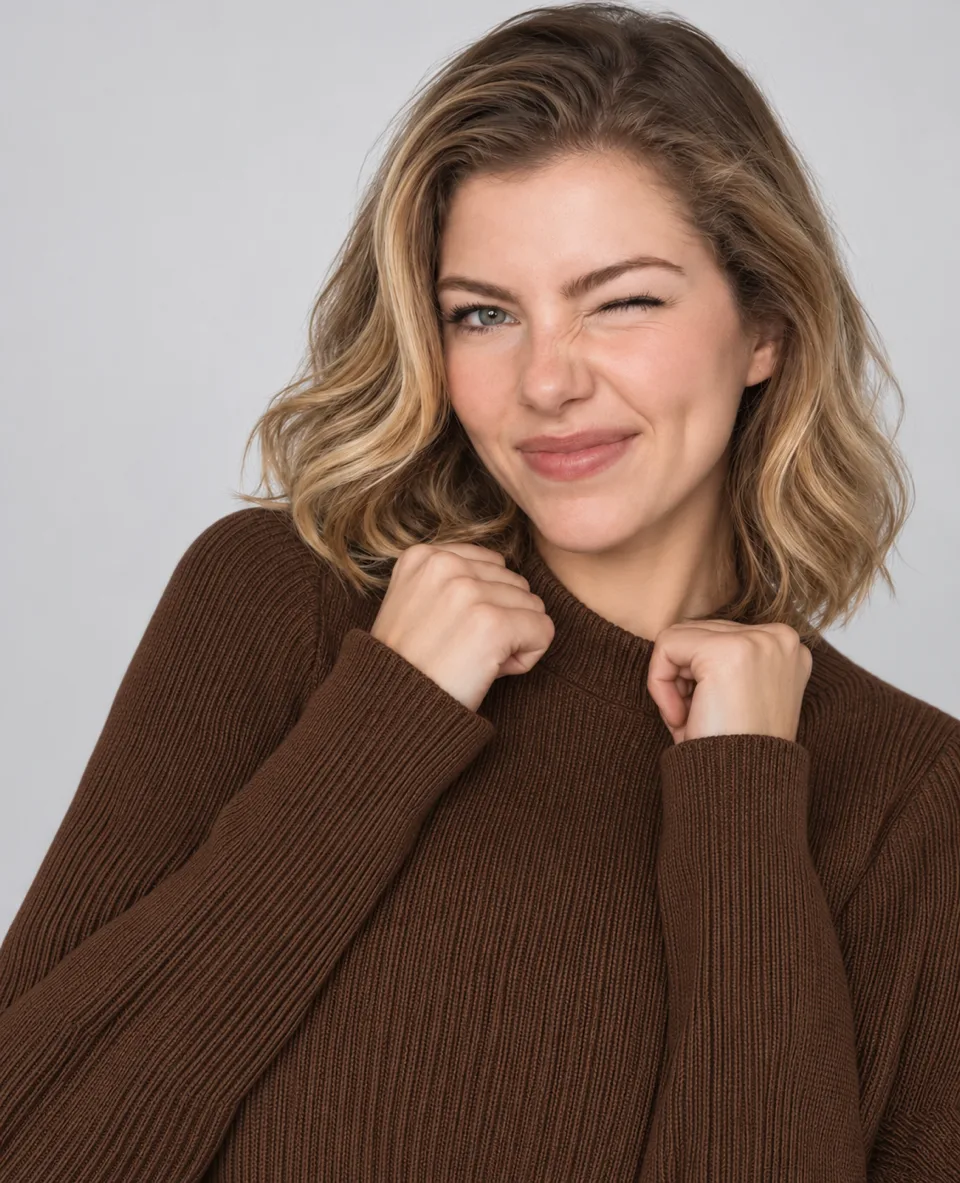
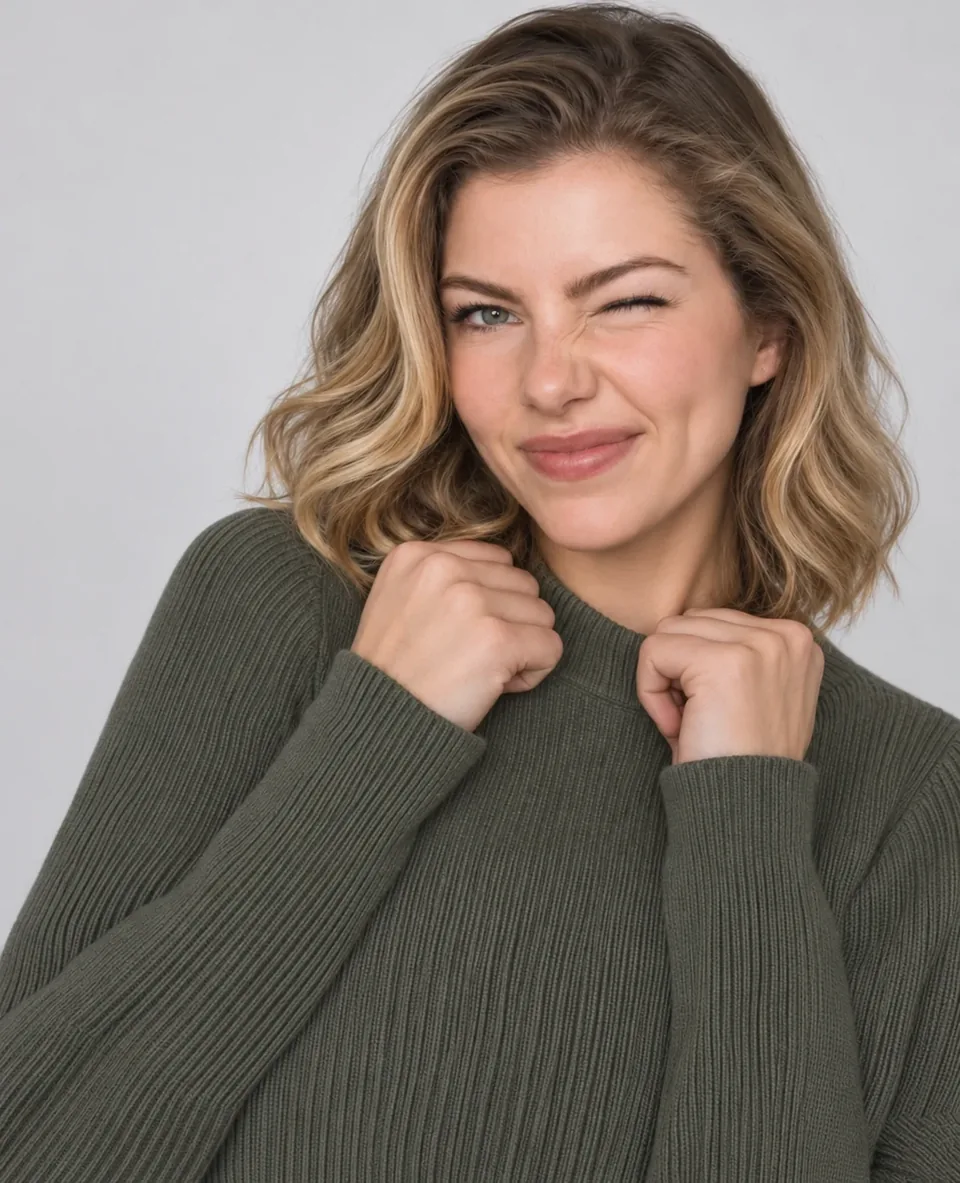
Iris blueprint as vector, new About portrait
The construction drawing on the Iris card and cover was a raster mask that went
soft when scaled up; it's now an SVG traced at the same coordinates, with the
square inscribed exactly. About gets the green-sweater portrait, same crop.

diff --git a/work/iris/cover-blueprint.html b/work/iris/cover-blueprint.html
@@ -15,7 +15,7 @@ body{transform-origin:0 0;position:relative;overflow:hidden;
    aperture is cut through, so the drawn flower would show around and inside it: that layer fades out
    as the mark lands, and the frame, labels and construction lines stay */
 #blue,#petals{left:650px;top:50px;width:900px;height:900px;background:#fff;opacity:.9}
-#blue{-webkit-mask:url(iris-mark-blueprint-frame.png) center/contain no-repeat;mask:url(iris-mark-blueprint-frame.png) center/contain no-repeat}
+#blue{-webkit-mask:url(../../assets/work/iris-blueprint-frame.svg) center/contain no-repeat;mask:url(../../assets/work/iris-blueprint-frame.svg) center/contain no-repeat}
 #petals{-webkit-mask:url(iris-mark-blueprint-flower.png) center/contain no-repeat;mask:url(iris-mark-blueprint-flower.png) center/contain no-repeat}
 /* Measured so the 3D mark lands on its drawing: the drawing's centre lines cross at (499, 442) of
    its 1000px image, its outer ring is r 130 and its petal tips r 321; the 3D mark's centre is
@@ -29,7 +29,7 @@ body{transform-origin:0 0;position:relative;overflow:hidden;
 <body>
 <div class="abs" id="blue"></div>
 <div class="abs" id="petals"></div>
-<img src="iris-mark-blueprint-frame.png" alt="" hidden><img src="iris-mark-blueprint-flower.png" alt="" hidden><!-- load the masks before the drawing starts -->
+<img src="../../assets/work/iris-blueprint-frame.svg" alt="" hidden><img src="iris-mark-blueprint-flower.png" alt="" hidden><!-- load the masks before the drawing starts -->
 <img class="abs" id="mark" src="iris-mark-3d-lg.png" alt="">
 <div class="abs" id="phone"><img src="home-light.png" alt=""><img id="dark" src="home-dark.png" alt=""></div>
 <script>

diff --git a/styles.css b/styles.css
@@ -667,10 +667,10 @@ a.case-media { display: block; }
   inset: 0;
   background: #5f48f6;
   opacity: 0.55;
-  /* Only the frame, labels and construction lines: the drawn petals are wider than the 3D mark's and
+  /* Only the frame, labels and construction lines, as vectors so they stay sharp: the drawn petals are wider than the 3D mark's and
      its aperture is cut through, so the drawn flower would show around and inside it */
-  -webkit-mask: url("assets/work/iris-blueprint-frame.webp") center / contain no-repeat;
-  mask: url("assets/work/iris-blueprint-frame.webp") center / contain no-repeat;
+  -webkit-mask: url("assets/work/iris-blueprint-frame.svg") center / contain no-repeat;
+  mask: url("assets/work/iris-blueprint-frame.svg") center / contain no-repeat;
 }
 /* Measured so the 3D mark lands on its drawing */
 .iris-mark {
